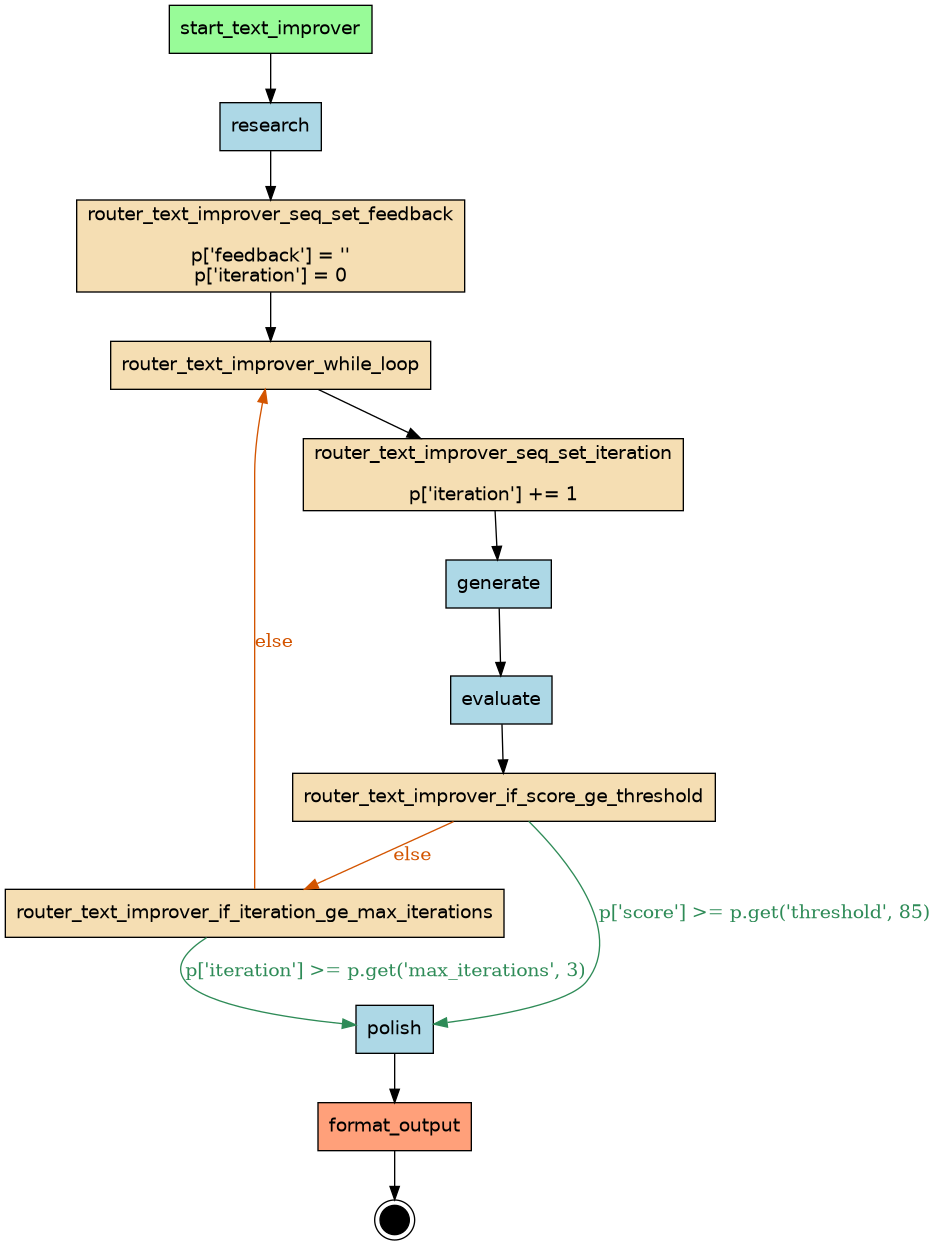
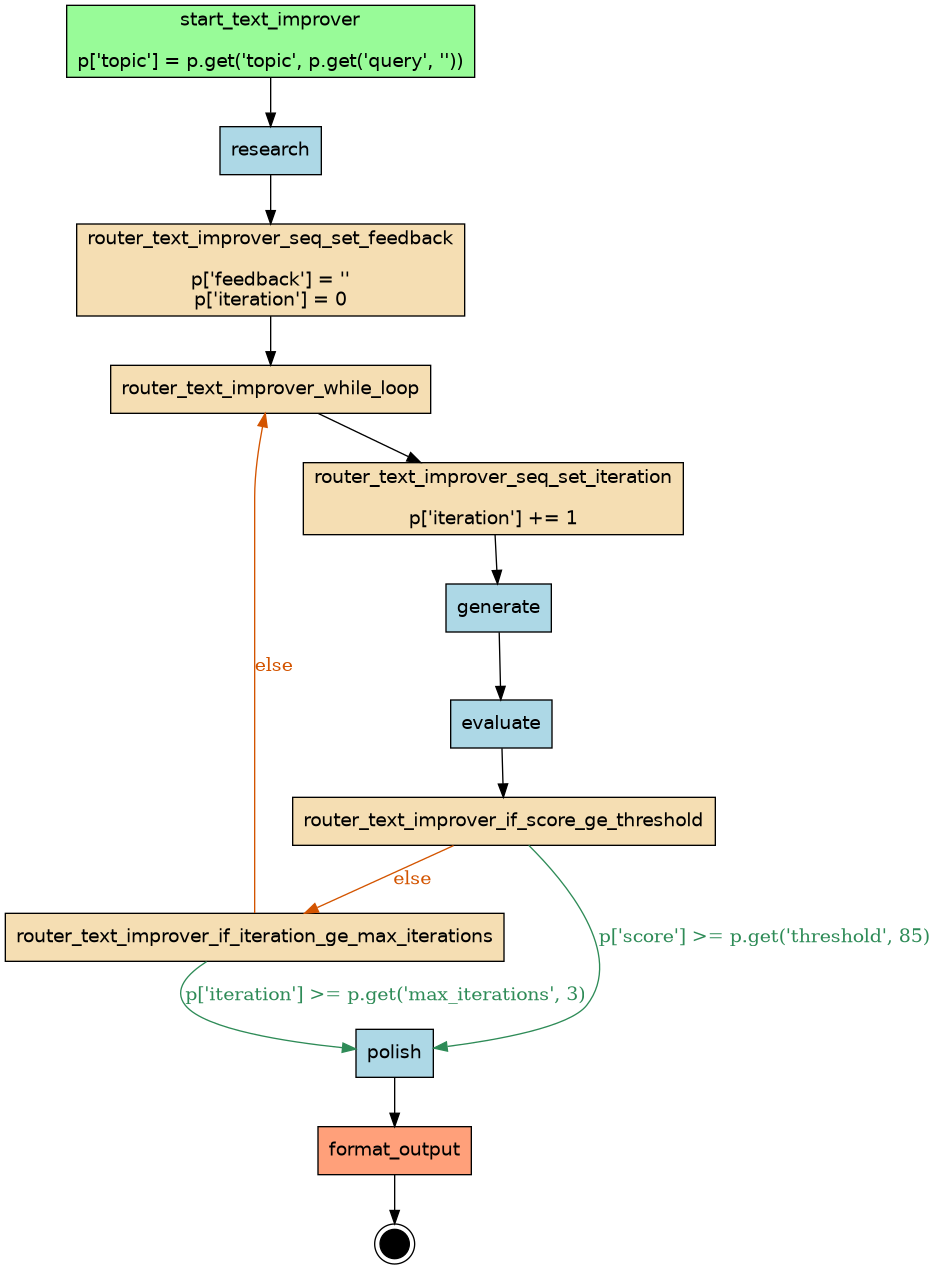
fix(demo): extract topic from query, recompile flow

Changed region(s): [[0.0, 0.0, 0.9915, 0.8546], [0.3408, 0.8851, 0.4957, 0.9767], [0.2788, 0.4884, 0.3098, 0.5494]]

diff --git a/examples/demo-kubecon/compiled/text-improver/code/routers.py b/examples/demo-kubecon/compiled/text-improver/code/routers.py
@@ -15,7 +15,9 @@ Regenerate by running: asya flow compile flow_text_improver.py
 
 async def start_text_improver(payload: dict):
     """Entrypoint for flow 'text_improver'"""
+    p = payload
     _next = []
+    p['topic'] = p.get('topic', p.get('query', ''))
     _next.append(resolve("research"))
     _next.append(resolve("router_text_improver_seq_set_feedback"))
     yield "SET", ".route.next[:0]", _next

diff --git a/examples/demo-kubecon/src/flow_text_improver.py b/examples/demo-kubecon/src/flow_text_improver.py
@@ -14,6 +14,7 @@ from actors import research, generate, evaluate, polish, format_output
 
 
 async def text_improver(p: dict) -> dict:  # asya: flow
+    p["topic"] = p.get("topic", p.get("query", ""))
     p["context"] = await research(p["topic"])
     p["feedback"] = ""
 
